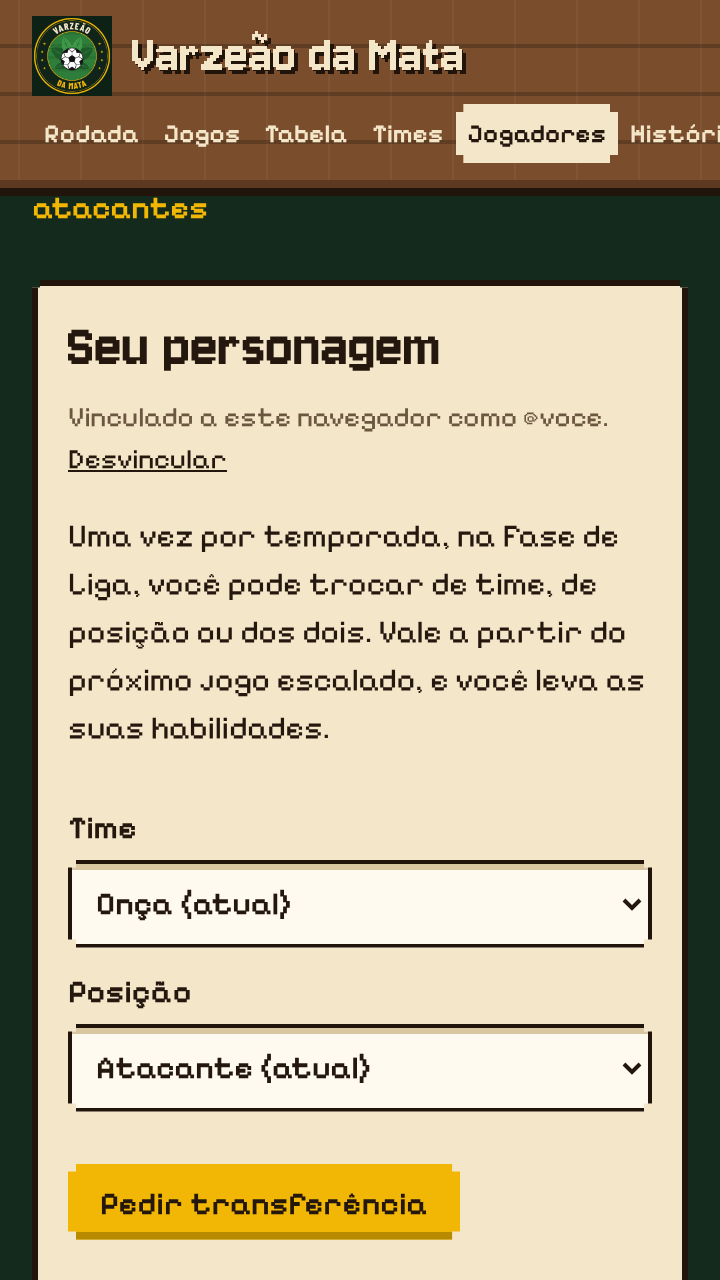
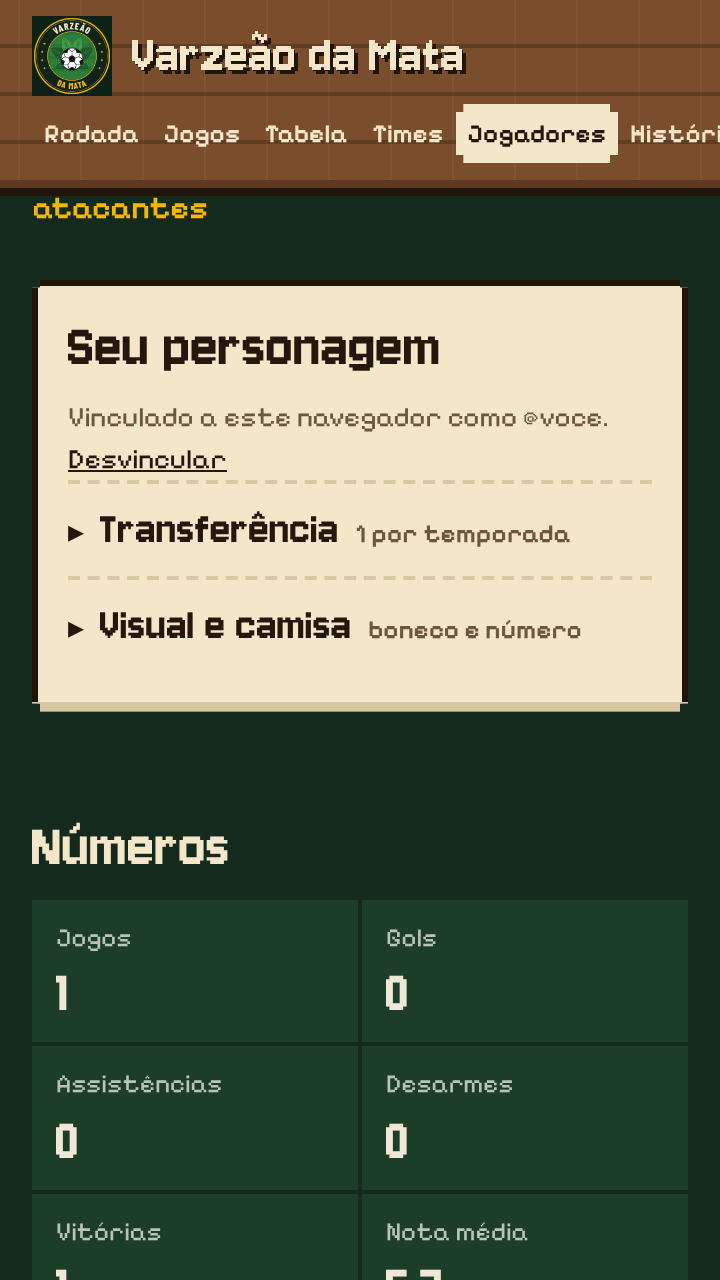
Reels de anúncio com a personalização: 'O que dá pra fazer' e 'Visual e camisa'
Telas recapturadas do site atual (seções recolhíveis, editor de visual, card com o boneco
novo); posições dos toques medidas junto com as capturas (alvos.json). Legenda atualizada.

Claude-Session: https://claude.ai/code/session_01NyzYMqxsCLiUC4NyvmjwJ2

diff --git a/packages/renderer/src/anuncio.ts b/packages/renderer/src/anuncio.ts
@@ -12,12 +12,13 @@ import { COLUNAS, COR, LINHAS, Pincel } from './pixel.js';
 import type { Segmento } from './roteiro.js';
 import type { Pose } from './sprites.js';
 import { desenharEscudoDaLiga, veu } from './video.js';
+import ALVOS from '../video/telas/alvos.json';
 
-export type CartelaAnuncio = 'NOVIDADE' | 'TRANSFERENCIA' | 'SITE' | 'CODIGO' | 'DM' | 'PRONTO' | 'PEDIR' | 'COMENTARIO';
+export type CartelaAnuncio = 'NOVIDADE' | 'RECURSOS' | 'SITE' | 'CODIGO' | 'DM' | 'PRONTO' | 'PEDIR' | 'VISUAL' | 'COMENTARIO';
 export type SegmentoAnuncio = Segmento & { cartela: CartelaAnuncio };
 
-const ORDEM: CartelaAnuncio[] = ['NOVIDADE', 'TRANSFERENCIA', 'SITE', 'CODIGO', 'DM', 'PRONTO', 'PEDIR', 'COMENTARIO'];
-const DURACAO_BASE: Record<CartelaAnuncio, number> = { NOVIDADE: 4.5, TRANSFERENCIA: 5.5, SITE: 5.5, CODIGO: 6, DM: 5.5, PRONTO: 5.5, PEDIR: 6.5, COMENTARIO: 7.5 };
+const ORDEM: CartelaAnuncio[] = ['NOVIDADE', 'RECURSOS', 'SITE', 'CODIGO', 'DM', 'PRONTO', 'PEDIR', 'VISUAL', 'COMENTARIO'];
+const DURACAO_BASE: Record<CartelaAnuncio, number> = { NOVIDADE: 4.5, RECURSOS: 7, SITE: 5.5, CODIGO: 6, DM: 5.5, PRONTO: 5, PEDIR: 7, VISUAL: 8, COMENTARIO: 7.5 };
 const CORTE = 0.3;
 
 /** O exemplo do vídeo: um atacante da Onça que vai para a Preguiça como zagueiro. */
@@ -56,12 +57,13 @@ export class RoteiroAnuncio {
 export function narracaoDoAnuncio(roteiro: RoteiroAnuncio): Fala[] {
   const texto: Record<CartelaAnuncio, string> = {
     NOVIDADE: 'Novidade no Varzeão da Mata! Agora você cuida do seu personagem pelo site.',
-    TRANSFERENCIA: 'Uma vez por temporada, você pode trocar de time, de posição, ou dos dois.',
+    RECURSOS: 'Dá pra trocar de time ou de posição, mudar o visual do boneco, escolher o número da camisa e votar no Craque com o seu arroba.',
     SITE: 'É fácil: abre o site, que tá no link da bio, e procura o seu arroba.',
     CODIGO: 'Toca em Vincular pela DM. Vai aparecer um código, tipo vê zê, um, dois, três, quatro.',
     DM: 'Manda esse código aqui na nossa DM, pela sua própria conta.',
     PRONTO: 'Volta no site e toca em Já mandei. Pronto: personagem vinculado!',
-    PEDIR: 'Agora é só escolher o time e a posição, e pedir a transferência. Vale do próximo jogo em diante.',
+    PEDIR: 'Em Transferência, escolhe o time e a posição e pede. Uma vez por temporada, e vale do próximo jogo em diante.',
+    VISUAL: 'Em Visual e camisa, escolhe a pele, o cabelo, o corte e o número. Salvou, já tá no seu card!',
     COMENTARIO: 'Prefere comentar? Escreve TRANSFERIR, o time e a posição. Só não vale ir pra time lotado: a Liga mantém os times equilibrados!',
   };
   return roteiro.segmentos.map((s, i): Fala => ({
@@ -76,7 +78,7 @@ export function narracaoDoAnuncio(roteiro: RoteiroAnuncio): Fala[] {
 }
 
 /** Telas reais do site (capturas a 360×640), na ordem do passo a passo. */
-export type TelaDoSite = 'busca' | 'convite' | 'codigo' | 'vinculado' | 'pedido' | 'feito';
+export type TelaDoSite = 'busca' | 'convite' | 'codigo' | 'vinculado' | 'transferencia' | 'pedido' | 'feito' | 'visual' | 'visualEscolhido' | 'camisa' | 'card';
 
 export interface OpcoesAnuncio {
   fonteDisplay?: string;
@@ -85,15 +87,8 @@ export interface OpcoesAnuncio {
   telas?: Partial<Record<TelaDoSite, CanvasImageSource>>;
 }
 
-/** Onde estão os botões nas capturas (px CSS da tela de 360×640), para o dedo tocar. */
-const ALVO = {
-  linhaDoJogador: [80, 545],
-  vincular: [113, 347],
-  jaMandei: [89, 421],
-  time: [180, 452],
-  posicao: [180, 534],
-  pedir: [132, 601],
-} as const;
+/** Onde estão os botões nas capturas (px CSS da tela de 360×640), medidos junto com elas. */
+const ALVO = ALVOS as unknown as Record<string, readonly [number, number]>;
 const LARGURA_TELA = 360;
 const ALTURA_TELA = 640;
 
@@ -209,29 +204,36 @@ export function desenharQuadroAnuncio(ctx: CanvasRenderingContext2D, roteiro: Ro
       surge(entre(t, 1.5, 2.0), () => boneco(pin, pose(), uniforme(EX.de, EX.posicao, `@${EX.username}`), COLUNAS / 2 - 24, 334, 4));
       break;
     }
-    case 'TRANSFERENCIA': {
-      titulo('Transferência');
-      surge(entre(t, 0.3, 0.7), () => {
-        desenharEscudo(pin, EX.de, 22, 120, 2);
-        desenharEscudo(pin, EX.para, COLUNAS - 22 - 50, 120, 2);
-        for (let k = 0; k < 7; k++) pin.r(92 + k * 13, 150, 7, 3, COR.amarelo);
-        pin.r(184, 146, 3, 11, COR.amarelo);
-        pin.r(187, 148, 2, 7, COR.amarelo);
-      });
-      // O boneco atravessa de um time para o outro e troca de uniforme no meio.
-      const ida = entre(t, 1.0, 3.0);
-      if (t > 0.9) {
-        const x = 30 + ida * (COLUNAS - 60 - 48);
-        const time = ida < 0.5 ? EX.de : EX.para;
-        const posicao = ida < 0.5 ? EX.posicao : EX.nova;
-        const p: Pose = ida >= 1 ? pose() : Math.floor(tVideo * 6) % 2 === 0 ? 'FRENTE_CORRE_A' : 'FRENTE_CORRE_B';
-        boneco(pin, p, uniforme(time, posicao, `@${EX.username}`), x, 196, 4);
-      }
-      surge(entre(t, 0.8, 1.2), () => {
-        pin.tabua(14, 290, 242, 92);
-        pin.texto('1 vez por temporada', COLUNAS / 2, 312, 22, display, COR.amarelo, { contorno: COR.contorno });
-        pin.texto('troque de time, de posição', COLUNAS / 2, 340, 12, texto, COR.placa, { peso: 700 });
-        pin.texto('ou dos dois', COLUNAS / 2, 358, 12, texto, COR.placa, { peso: 700 });
+    case 'RECURSOS': {
+      titulo('O que dá pra fazer');
+      const itens: [string, string][] = [
+        ['Transferência', 'time, posição ou os dois'],
+        ['Visual do boneco', 'pele, cabelo e corte'],
+        ['Número da camisa', 'de 1 a 99'],
+        ['Votar no Craque', 'com o seu @'],
+      ];
+      itens.forEach(([nome, detalhe], k) => {
+        surge(entre(t, 0.4 + k * 0.9, 0.8 + k * 0.9), () => {
+          const y = 90 + k * 78;
+          pin.tabua(14, y, 242, 66);
+          pin.texto(nome, 92, y + 24, pin.caber(nome, 150, 20, display), display, COR.amarelo, { alinhar: 'left', contorno: COR.contorno });
+          pin.texto(detalhe, 92, y + 46, pin.caber(detalhe, 150, 11, texto, 700), texto, COR.placa, { alinhar: 'left', peso: 700 });
+          // Ícone de cada coisa, em pixel art.
+          if (k === 0) {
+            desenharEscudo(pin, EX.de, 22, y + 14, 0.8);
+            pin.r(52, y + 30, 6, 3, COR.amarelo);
+            desenharEscudo(pin, EX.para, 58, y + 14, 0.8);
+          } else if (k === 1) {
+            const cortes = ['CURTO', 'BLACK', 'MOICANO'] as const;
+            boneco(pin, 'FRENTE_PARADO', { ...uniforme(EX.de, EX.posicao, `@${EX.username}`), penteado: cortes[Math.floor(tVideo * 1.5) % 3]!, cabelo: ['#1C130D', '#E8C547', '#B98A3E'][Math.floor(tVideo * 1.5) % 3]! }, 30, y + 8, 3);
+          } else if (k === 2) {
+            pin.placa(28, y + 14, 40, 38, { fundo: IDENTIDADE[EX.de].primaria, sombra: COR.contorno });
+            pin.texto('7', 48, y + 34, 26, display, '#FFFFFF', { contorno: COR.contorno });
+          } else {
+            pin.placa(28, y + 14, 40, 38, { fundo: COR.amarelo, luz: '#FFE07A', sombra: '#B88600' });
+            pin.texto('1', 48, y + 34, 26, display, COR.tinta);
+          }
+        });
       });
       break;
     }
@@ -239,7 +241,7 @@ export function desenharQuadroAnuncio(ctx: CanvasRenderingContext2D, roteiro: Ro
       titulo('1. Abra o site');
       surge(entre(t, 0.2, 0.6), () => {
         const c = site([['busca', 0], ['convite', 2.6]]);
-        dedo(c.em(...ALVO.linhaDoJogador), 2.2);
+        dedo(c.em(...ALVO.linhaDoJogador!), 2.2);
       });
       legenda('link na bio: ache o seu @', 432, 0.8);
       break;
@@ -248,7 +250,7 @@ export function desenharQuadroAnuncio(ctx: CanvasRenderingContext2D, roteiro: Ro
       titulo('2. Peça o código');
       surge(entre(t, 0.2, 0.6), () => {
         const c = site([['convite', 0], ['codigo', 1.6]]);
-        dedo(c.em(...ALVO.vincular), 1.2);
+        dedo(c.em(...ALVO.vincular!), 1.2);
       });
       legenda('toque em "Vincular pela DM"', 432, 0.8);
       break;
@@ -276,7 +278,7 @@ export function desenharQuadroAnuncio(ctx: CanvasRenderingContext2D, roteiro: Ro
       titulo('4. Já mandei');
       surge(entre(t, 0.2, 0.6), () => {
         const c = site([['codigo', 0], ['vinculado', 1.5]]);
-        dedo(c.em(...ALVO.jaMandei), 1.0);
+        dedo(c.em(...ALVO.jaMandei!), 1.0);
         // Selo de vinculado por cima da tela, com confete.
         surge(entre(t, 1.8, 2.2), () => {
           pin.placa(c.x + 14, c.y + c.h - 64, c.w - 28, 46, { fundo: '#7FB069', luz: '#A7D28F', sombra: '#4E8A3A' });
@@ -291,14 +293,28 @@ export function desenharQuadroAnuncio(ctx: CanvasRenderingContext2D, roteiro: Ro
       break;
     }
     case 'PEDIR': {
-      titulo('5. Peça a transferência');
+      titulo('5. Transferência');
       surge(entre(t, 0.2, 0.6), () => {
-        const c = site([['vinculado', 0], ['pedido', 1.7], ['feito', 2.9]]);
-        dedo(c.em(...ALVO.time), 1.0);
-        dedo(c.em(...ALVO.posicao), 1.7);
-        dedo(c.em(...ALVO.pedir), 2.5);
+        const c = site([['vinculado', 0], ['transferencia', 1.3], ['pedido', 2.6], ['feito', 3.7]]);
+        dedo(c.em(...ALVO.abrirTransferencia!), 0.9);
+        dedo(c.em(...ALVO.time!), 2.0);
+        dedo(c.em(...ALVO.posicao!), 2.6);
+        dedo(c.em(...ALVO.pedir!), 3.3);
       });
-      legenda('vale do próximo jogo em diante', 432, 3.0);
+      legenda('1 vez por temporada', 432, 3.9);
+      break;
+    }
+    case 'VISUAL': {
+      titulo('6. Visual e camisa');
+      surge(entre(t, 0.2, 0.6), () => {
+        const c = site([['vinculado', 0], ['visual', 1.3], ['visualEscolhido', 3.4], ['camisa', 4.0], ['card', 5.2]]);
+        dedo(c.em(...ALVO.abrirVisual!), 0.9);
+        dedo(c.em(...ALVO.pele!), 2.0);
+        dedo(c.em(...ALVO.cabelo!), 2.6);
+        dedo(c.em(...ALVO.corte!), 3.2);
+        dedo(c.em(...ALVO.salvar!), 4.8);
+      });
+      legenda('salvou, já está no seu card', 432, 5.3);
       break;
     }
     case 'COMENTARIO': {
@@ -318,7 +334,6 @@ export function desenharQuadroAnuncio(ctx: CanvasRenderingContext2D, roteiro: Ro
         pin.texto('Time lotado não vale:', COLUNAS / 2, 188, 18, display, COR.amarelo, { contorno: COR.contorno });
         pin.texto('a Liga mantém os times', COLUNAS / 2, 214, 12, texto, COR.placa, { peso: 700 });
         pin.texto('equilibrados', COLUNAS / 2, 232, 12, texto, COR.placa, { peso: 700 });
-        pin.texto('⚖', COLUNAS / 2, 254, 14, texto, COR.amarelo);
       });
       surge(entre(t, 3.6, 4.1), () => {
         pin.texto('site: link na bio', COLUNAS / 2, 296, 12, texto, COR.placa, { peso: 700 });

diff --git a/packages/renderer/video/main.ts b/packages/renderer/video/main.ts
@@ -14,13 +14,18 @@ import type { VarzeaApi } from './api.js';
 import { RoteiroResumo, desenharQuadroResumo, type DadosDoResumo } from '../src/resumo.js';
 import { RoteiroApresentacao, desenharQuadroApresentacao, type DadosDaApresentacao } from '../src/apresentacao.js';
 import { definirAparencias } from '../src/sprites.js';
-import { RoteiroAnuncio, desenharQuadroAnuncio, type TelaDoSite } from '../src/anuncio.js';
 import telaBusca from './telas/1-busca.png';
 import telaConvite from './telas/2-convite.png';
 import telaCodigo from './telas/3-codigo.png';
 import telaVinculado from './telas/4-vinculado.png';
-import telaPedido from './telas/5-pedido.png';
-import telaFeito from './telas/6-feito.png';
+import telaTransferencia from './telas/5-transferencia.png';
+import telaPedido from './telas/6-pedido.png';
+import telaFeito from './telas/7-feito.png';
+import telaVisual from './telas/8-visual.png';
+import telaVisualEscolhido from './telas/8b-visual-escolhido.png';
+import telaCamisa from './telas/9-visual-escolhido.png';
+import telaCard from './telas/11-card.png';
+import { RoteiroAnuncio, desenharQuadroAnuncio, type TelaDoSite } from '../src/anuncio.js';
 import { Roteiro, Timeline, desenharCapa, desenharQuadroVideo, type OpcoesVideo, type PartidaParaVideo } from '../src/index.js';
 
 const FONTES: [string, string, string][] = [
@@ -42,7 +47,7 @@ let apresentacao: RoteiroApresentacao | null = null;
 let fps = 30;
 /** Quando preenchido, a página grava o Reels de anúncio (vínculo pela DM). */
 let anuncio: RoteiroAnuncio | null = null;
-const URL_DAS_TELAS: Record<TelaDoSite, string> = { busca: telaBusca, convite: telaConvite, codigo: telaCodigo, vinculado: telaVinculado, pedido: telaPedido, feito: telaFeito };
+const URL_DAS_TELAS: Record<TelaDoSite, string> = { busca: telaBusca, convite: telaConvite, codigo: telaCodigo, vinculado: telaVinculado, transferencia: telaTransferencia, pedido: telaPedido, feito: telaFeito, visual: telaVisual, visualEscolhido: telaVisualEscolhido, camisa: telaCamisa, card: telaCard };
 const telas: Partial<Record<TelaDoSite, HTMLImageElement>> = {};
 const telasProntas = Promise.all(
   (Object.entries(URL_DAS_TELAS) as [TelaDoSite, string][]).map(

diff --git a/packages/worker/scripts/postar-anuncio.ts b/packages/worker/scripts/postar-anuncio.ts
@@ -27,14 +27,18 @@ const sair = (m: string): never => {
 export const LEGENDA_DO_ANUNCIO = [
   '📲 Novidade no Varzeão da Mata: agora você cuida do seu personagem pelo site!',
   '',
-  'Uma vez por temporada, dá para trocar de time, de posição ou dos dois. É assim:',
+  'Dá para:',
+  '🔁 trocar de time, de posição ou dos dois (1 vez por temporada)',
+  '🎨 mudar o visual do boneco: pele, cabelo e corte',
+  '👕 escolher o número da camisa',
+  '⭐ votar no Craque com o seu @',
+  '',
+  'Como vincular:',
   '1⃣ Abra o site (link na bio) e ache o seu @',
   '2⃣ Toque em "Vincular pela DM": aparece um código, tipo VZ-1234',
   '3⃣ Mande o código aqui na nossa DM, pela sua conta',
   '4⃣ Volte no site e toque em "Já mandei"',
-  '5⃣ Escolha o time e a posição e peça a transferência',
   '',
-  'Vale do próximo jogo em diante, e você leva as suas habilidades.',
   'Prefere comentar? Escreva TRANSFERIR + time + posição (ex.: TRANSFERIR Preguiça zagueiro).',
   'Só não dá para ir para time lotado: a Liga mantém os times equilibrados. ⚖',
   '',
